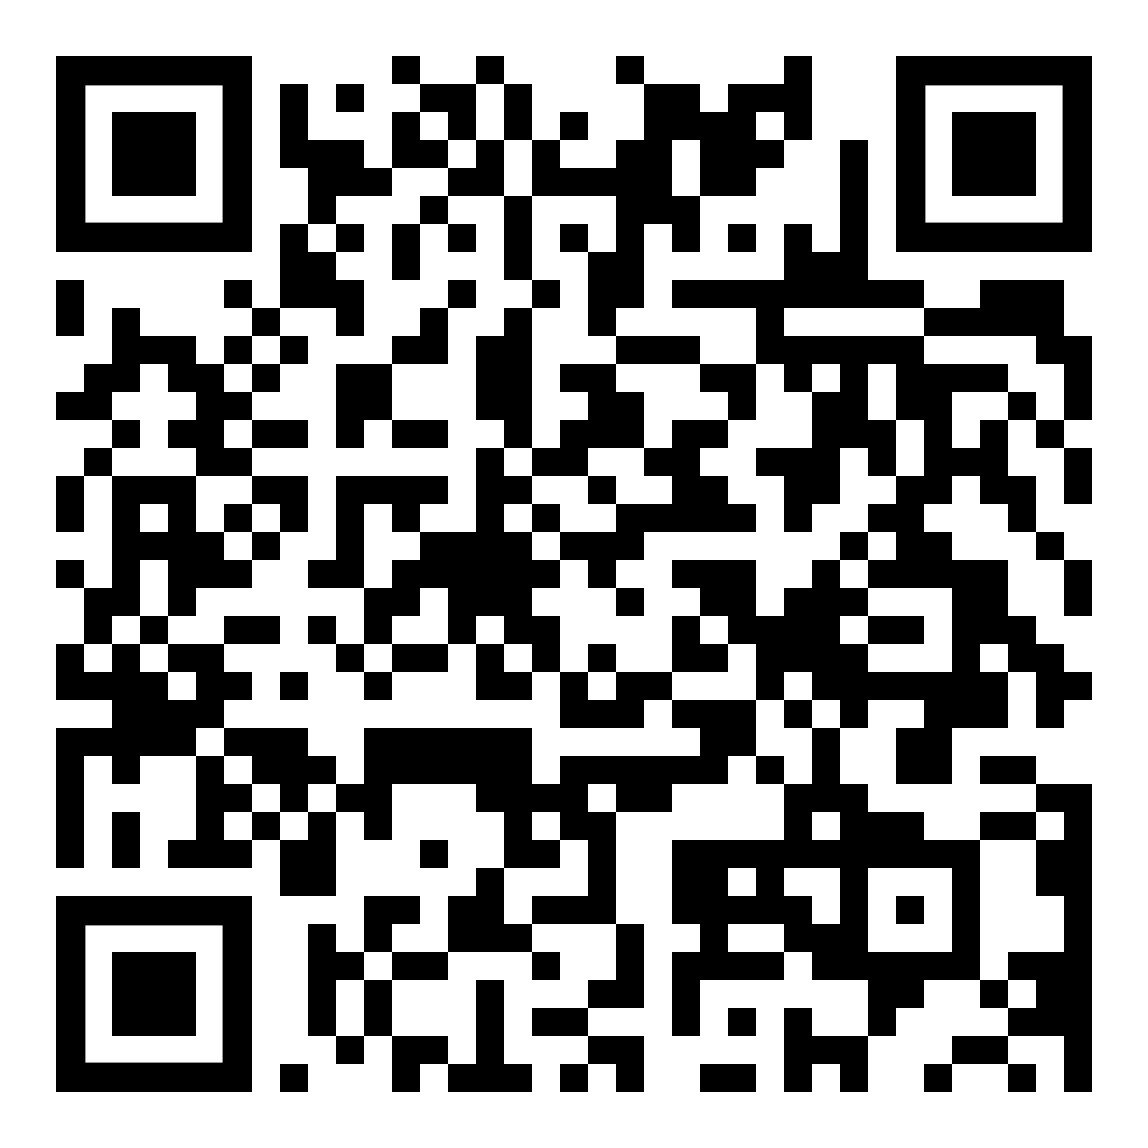
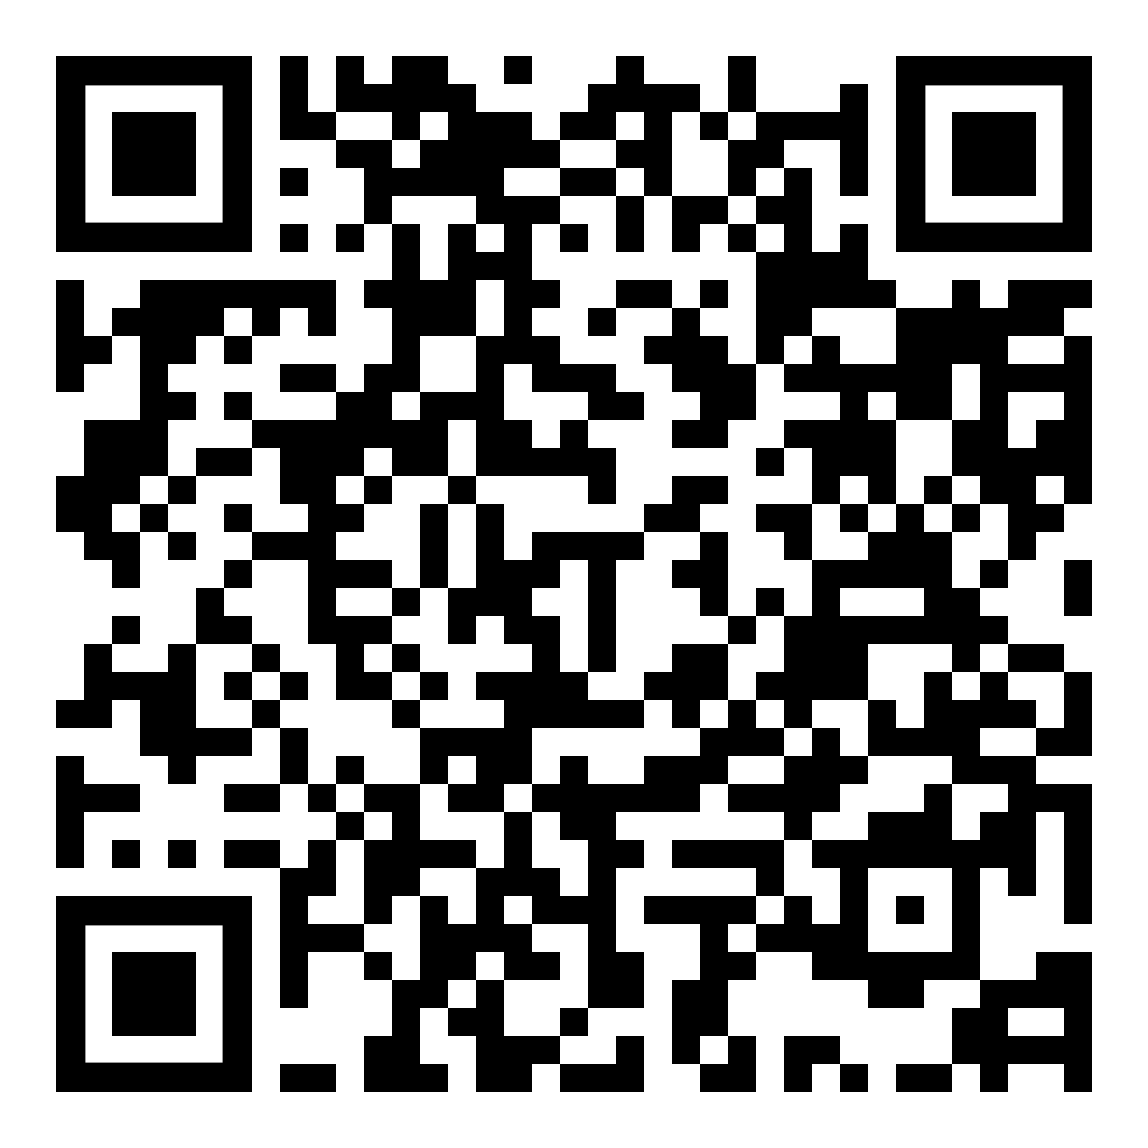
Subir Codigo QR

diff --git a/index.html b/index.html
@@ -723,7 +723,7 @@
                 <p class="texto">Sube tus fotos y comparte tus mejores recuerdos de este momento único. ¡Estamos emocionados de ver tus fotos!</p>
                 <img src="qr-code.png" alt="Código QR para Google Fotos" style="width: 180px; border-radius: 15px; margin-top: 15px; border: 2px solid var(--color-principal); box-shadow: 0 4px 10px rgba(0,0,0,0.2);">
                 <br>
-                <a href="https://drive.google.com/drive/folders/1vt7kta9C1_mFM1B3CLRj7iod2YwaOWJj?usp=drive_link" target="_blank" class="button" style="margin-top: 25px;">Ver Fotos</a>
+                <a href="https://drive.google.com/drive/folders/1DvQxTb-dlBEON-urZAvI3J3dgQV0FTpe?usp=sharing" target="_blank" class="button" style="margin-top: 25px;">Ver Fotos</a>
             </section>
         </div>
     </div> <!-- Cierre de background-container -->
